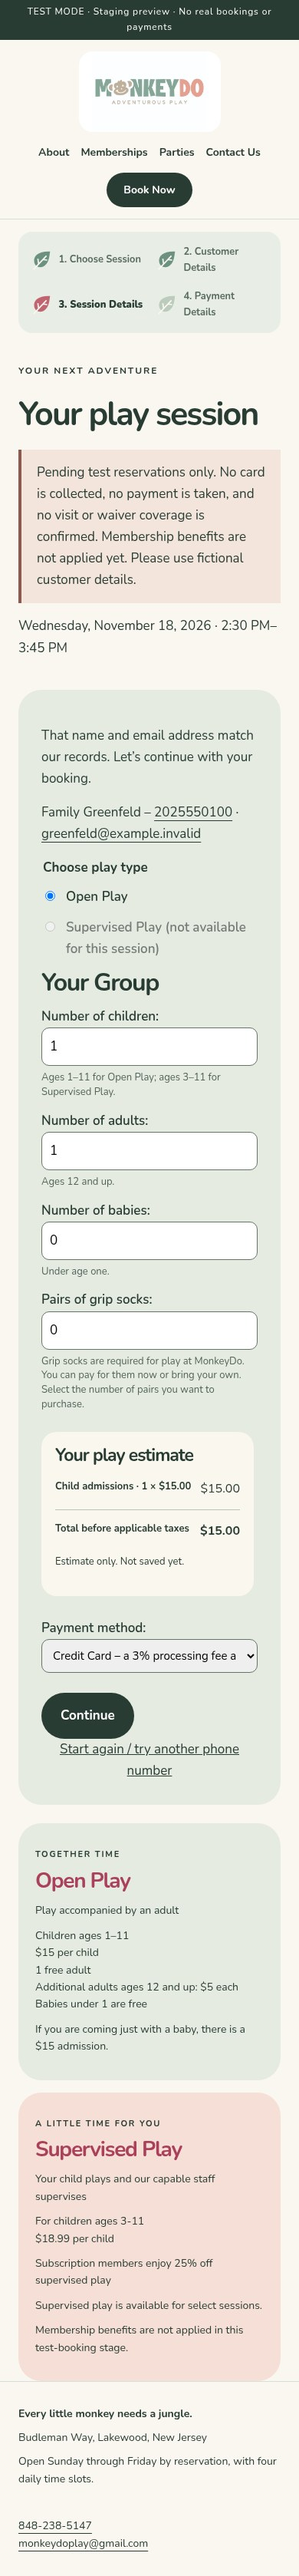
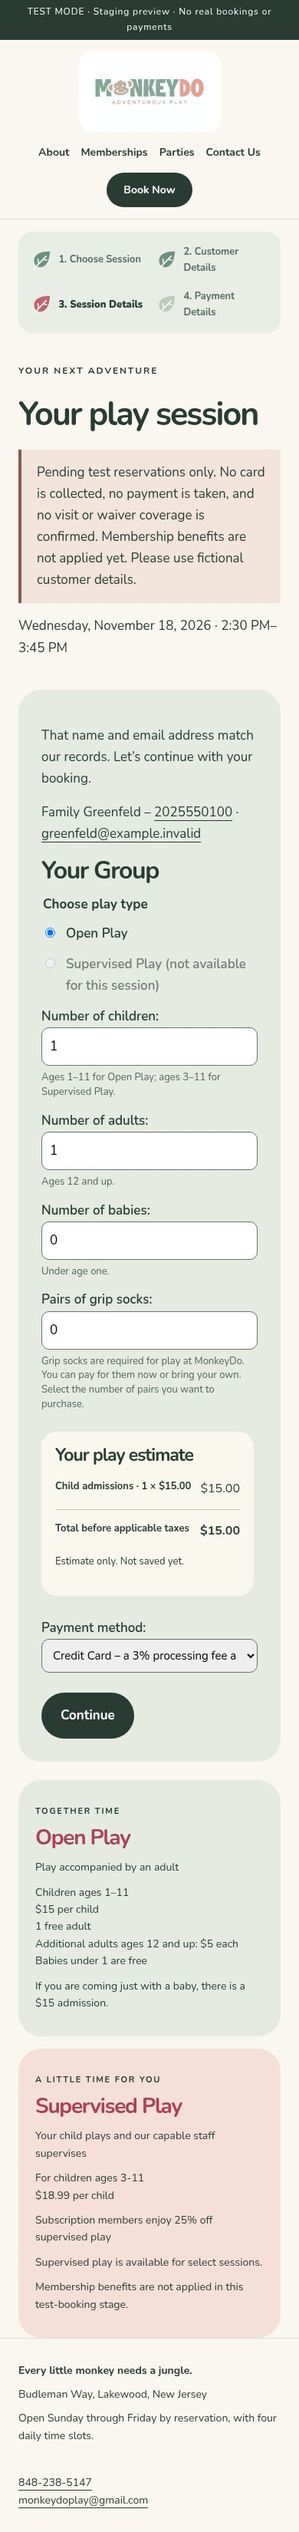
Refine booking page heading order and card spacing

diff --git a/templates/core/customer_booking.html b/templates/core/customer_booking.html
@@ -35,7 +35,7 @@
 {% if flow.stage == 'retry_phone' %}<button class="text-button" name="continue_new" value="1">Continue as a new customer</button>{% endif %}
 {% endif %}</form>{% endif %}
 {% if flow.stage == 'review' %}<form method="post" action="{% url 'customer_booking_revise' %}">{% csrf_token %}<input type="hidden" name="flow_key" value="{{ flow.key }}"><button class="text-button">Change your session details or your payment method</button></form>{% endif %}
-{% if flow.stage != 'contact' and flow.stage != 'retry_phone' and flow.stage != 'conflict_stop' %}
+{% if flow.stage != 'contact' and flow.stage != 'retry_phone' and flow.stage != 'conflict_stop' and flow.stage != 'details' %}
 {% if session %}<form method="post" action="{% url 'customer_booking_start' session.pk %}">{% csrf_token %}<button class="text-button">Start again / try another phone number</button></form>{% endif %}
 {% if flow.stage == 'name' and flow.verification_entry != 'returning_current' %}<form method="post" action="{% url 'customer_email_recovery' %}">{% csrf_token %}<button class="text-button">Find my customer details by email</button></form>{% endif %}
 {% endif %}

diff --git a/static/core/site.css b/static/core/site.css
@@ -923,7 +923,7 @@ input[type="checkbox"],input[type="radio"] { width:auto; padding:0; margin-right
 .table-filters .clear-dates { position:absolute; right:6px; top:4px }
 
 /* Fourth owner-feedback batch: public group layout and compact staff lists. */
-.customer-booking-layout.with-play-info { grid-template-columns:minmax(0,740px) 260px; gap:56px; max-width:1056px; margin-inline:0 }
+.customer-booking-layout.with-play-info { grid-template-columns:minmax(0,740px) 260px; gap:120px; max-width:1120px; margin-inline:0 }
 .public-details-layout { display:grid; grid-template-columns:repeat(2,minmax(0,1fr)); gap:22px; align-items:start }
 .public-play-choice { grid-column:1 / -1; padding:0; border:0; margin:0 }
 .public-play-choice legend { font-weight:700; margin-bottom:10px }

diff --git a/templates/core/partials/public_details_form.html b/templates/core/partials/public_details_form.html
@@ -1,6 +1,6 @@
-<fieldset class="public-play-choice"><legend>Choose play type</legend>{{ form.play_type.errors }}{{ form.play_type }}</fieldset>
 {{ form.non_field_errors }}
 <h2 class="public-group-heading">Your Group</h2>
+<fieldset class="public-play-choice"><legend>Choose play type</legend>{{ form.play_type.errors }}{{ form.play_type }}</fieldset>
 <div class="public-quantities">
 {% include 'core/partials/public_field.html' with field=form.children %}
 {% include 'core/partials/public_field.html' with field=form.adults %}

diff --git a/docs/MONKEYDO_REQUIREMENTS.md b/docs/MONKEYDO_REQUIREMENTS.md
@@ -134,7 +134,7 @@ Collect Last Name, phone, email, date/session, baby/child/adult quantities, calc
 
 Validate in browser and server: required fields/consent, nonnegative integer counts, nonzero attendance, adult rule where applicable, card setup unless owner-comped, availability/end time, capacity and permissions. Online waiver must be covered before booking completes; admin/phone bookings may confirm pending.
 
-The visible public progress indicator has four steps: Choose Session, Customer Details, Session Details, Payment Details. Expected payment-method selection stays in Session Details; the breakdown and final reviewed save action live in Payment Details, without a separate visible Review step. Show completion afterward. Add a waiver step only when the approved waiver workflow is implemented. Show an itemized calculation before confirmation. Public Session Details has a read-only live estimate labelled Total before applicable taxes, placed at the upper right of the quantity section, with Payment method and Continue below it at the bottom right. All four quantity inputs stack on the left. Show Family/contact links, Choose play type, then Your Group; use quantity labels with separate age guidance. The live estimate shows only admissions/adults/socks and their base subtotal, excluding both card-processing fees and tax from its rows and total; final Payment Details shows the complete fee/tax-inclusive breakdown. Stack compact Open/Supervised information cards without booking buttons outside the form on desktop and below it on phones. Save immutable price/tax/fee/policy snapshots; an authorized edit creates a new revision with before/after audit, not silent rewriting of the original. Future owner pricing/settings do not alter accepted existing bookings or cohort prices.
+The visible public progress indicator has four steps: Choose Session, Customer Details, Session Details, Payment Details. Expected payment-method selection stays in Session Details; the breakdown and final reviewed save action live in Payment Details, without a separate visible Review step. Show completion afterward. Add a waiver step only when the approved waiver workflow is implemented. Show an itemized calculation before confirmation. Public Session Details has a read-only live estimate labelled Total before applicable taxes, placed at the upper right of the quantity section, with Payment method and Continue below it at the bottom right. All four quantity inputs stack on the left. Show Family/contact links, Your Group, then Choose play type; omit Start again from Session Details while retaining lookup/recovery restart actions; use quantity labels with separate age guidance. The live estimate shows only admissions/adults/socks and their base subtotal, excluding both card-processing fees and tax from its rows and total; final Payment Details shows the complete fee/tax-inclusive breakdown. Stack compact Open/Supervised information cards without booking buttons outside the form on desktop and below it on phones. Save immutable price/tax/fee/policy snapshots; an authorized edit creates a new revision with before/after audit, not silent rewriting of the original. Future owner pricing/settings do not alter accepted existing bookings or cohort prices.
 
 ## 7. Customers and public identification
 
@@ -364,8 +364,8 @@ changes will receive owner interactive acceptance after approved deployment.
 See [complete scope/branch matrix](OWNER_EDITS_BATCH_4.md).
 
 - Public Session Details uses a narrower, left-aligned green panel with a clear
-  gap before outside play cards. Show Family/contact links, Choose play type and
-  then Your Group. All four quantity inputs stack on the left; item-only estimate
+  wider desktop gap before outside play cards. Show Family/contact links, Your Group
+  and then Choose play type. Omit Start again here; retain lookup/recovery restart actions. All four quantity inputs stack on the left; item-only estimate
   is upper right and Payment method/Continue bottom right. Use Number of
   children/adults/babies and Pairs of grip socks, with ages in separate help;
   responsive phone stacking. Do not show the card's

diff --git a/docs/OWNER_EDITS_BATCH_4.md b/docs/OWNER_EDITS_BATCH_4.md
@@ -13,7 +13,7 @@ with booking-page image comments; do not merge/deploy before that review.
 | Item | Implemented behavior |
 | --- | --- |
 | 1 | Omit Check the booking page to see which sessions offer it only from the booking-page Supervised Play information card. Preserve homepage/About wording. |
-| 2 | Narrower left-aligned green panel/inputs with a clear gap before outside play cards. Family/contact links, Choose play type, then Your Group. All four quantity fields stack left; estimate upper right and Payment method/Continue bottom right. Quantity labels are explicit; age guidance is separate. Stack on phones. |
+| 2 | Narrower left-aligned green panel/inputs with a clear gap before outside play cards. Family/contact links, Your Group, then Choose play type. No Start again link on Session Details; retain it on lookup/recovery screens. All four quantity fields stack left; estimate upper right and Payment method/Continue bottom right. Quantity labels are explicit; age guidance is separate. Stack on phones. |
 | 3 | Public form always shows Open/Supervised radios; unavailable choices are disabled/labelled. Open is default when available; supervised-only defaults to Supervised. Public Supervised selection resets adults/babies to zero and makes them read-only, with Supervised play is children only popup on attempted change. Restore prior Open values when switching back. Staff retain validation rather than locking. Estimate recalculates after the reset; server still rejects forged/nonzero supervised quantities. |
 | 4 | Customers search input is narrower, with type selector and Search aligned on desktop; All types remains the initial selection. Responsive stacking retains usability. |
 | 5 | Bookings, Today, Customers and Membership drafts have 10/25/50/100 rows, default 25, numbered/Previous/Next links, preserved filters/sort and page-one reset on size/filter change. Today totals/matching count remain independent of the displayed page. |
@@ -76,8 +76,9 @@ records plans, not implemented integrations. Homepage design remains unchanged.
 ## Booking-page image review follow-up
 
 The owner replaced the earlier two-by-two quantity arrangement: keep narrow
-spacing, align the green panel left with separation before the outside play cards,
-then Family/contact, Choose play type, and Your Group. All four quantity inputs
+spacing, align the green panel left with a wider desktop gap before the outside play cards,
+then Family/contact, Your Group, and Choose play type. Session Details omits
+Start again; lookup/recovery screens retain it. All four quantity inputs
 stack on the left; the estimate is upper right and payment/Continue lower right.
 Labels say Number of children/adults/babies and Pairs of grip socks, with ages
 and sock instructions as separate help, so inputs cannot be mistaken for ages.

diff --git a/docs/DECISION_LOG.md b/docs/DECISION_LOG.md
@@ -507,3 +507,14 @@ estimate upper right and payment/Continue bottom right. Explicit quantity labels
 and separate age help remove ambiguity about entering ages. Keep the same draft
 PR and refresh booking-page screenshots only. Matching, calculation, permissions
 and the deployment review boundary are unchanged.
+
+
+## Fourth-batch booking-page second image revision
+
+Owner approved the clearer quantity/age separation and requested three changes:
+omit Start again only from Session Details, restore Your Group above Choose play
+type, and move outside Open/Supervised information cards farther right. Keep the
+740px desktop panel and four left-side quantity fields; increase its desktop gap
+to the cards to 120px, with existing narrower-screen stacking. Lookup/recovery
+restart actions, matching, pricing and validation remain unchanged. Refresh the
+same eight booking-page images in draft PR #28; deployment awaits owner approval.

diff --git a/docs/STAGING_TEST_PLAN.md b/docs/STAGING_TEST_PLAN.md
@@ -273,8 +273,9 @@ Local developer regression/browser checks passed; owner booking-page screenshot
 review is pending. Other changed pages/scenarios receive owner interactive tests
 after approved deployment, per this batch's explicit review instruction.
 
-- B4-LAYOUT: left-aligned narrow panel with outside-card separation; Family/contact,
-  Choose play type and Your Group order. Four quantity fields stack left, estimate
+- B4-LAYOUT: left-aligned narrow panel with wider outside-card separation; Family/contact,
+  Your Group and Choose play type order. No Start again action on Session Details;
+  lookup/recovery restart actions remain. Four quantity fields stack left, estimate
   upper right and Payment/Continue bottom right. Quantity labels and separate age
   help, phone stacking and 320px no overflow.
   Check only booking card omits Check the booking page; homepage/About unchanged.

diff --git a/docs/BUILD_STATUS.md b/docs/BUILD_STATUS.md
@@ -12,8 +12,10 @@ images. The routine browser-ZIP PowerShell handoff passed with transport mocked;
 GitHub PostgreSQL 17/native Windows CI is separate release evidence.
 
 The subsequent booking-image correction left-aligns the panel, places all four
-quantity fields left and estimate/payment right, reorders play choice above
-Your Group and separates age help from quantity labels. It passed 41 affected
+quantity fields left and estimate/payment right, places Your Group above the
+play choices and separates age help from quantity labels. The latest owner
+correction removes Start again only from Session Details and widens the desktop
+gap before the outside play cards to 120px. It passed 41 affected
 tests and refreshed 1440/390px captures plus 320px checks; the existing full-suite
 result above precedes that presentation follow-up. GitHub rechecks the new head.
 

diff --git a/docs/CUSTOMER_BOOKING_DEVELOPMENT.md b/docs/CUSTOMER_BOOKING_DEVELOPMENT.md
@@ -136,8 +136,9 @@ field remains absent.
 
 ## Fourth batch — public layout and scoped verification
 
-The narrower public panel aligns left with space before the outside play cards.
-Its order is Family/contact links, Choose play type, then Your Group. All four
+The narrower public panel aligns left with a wider desktop gap before the outside play cards.
+Its order is Family/contact links, Your Group, then Choose play type. Session
+Details omits Start again; lookup/recovery screens retain their restart actions. All four
 quantity inputs stack on the left, with the estimate upper right and Payment
 method/Continue bottom right. Quantity labels are explicit and age guidance is
 separate; this supersedes the initial fourth-batch layout after image review. Always show both play

diff --git a/docs/design-review/owner-edits-batch-4/README.md b/docs/design-review/owner-edits-batch-4/README.md
@@ -26,8 +26,8 @@ Homepage/About imagery and layout are unchanged.
 
 
 Latest image-review revision: the narrower green panel aligns left with a clear
-gap before the outside cards. Family/contact links precede Choose play type and
-Your Group. Four inputs stack left with explicit quantity labels and separate
+120px desktop gap before the outside cards. Family/contact links precede Your Group
+and Choose play type. Start again is removed from Session Details only. Four inputs stack left with explicit quantity labels and separate
 age guidance; the estimate is upper right, payment/Continue bottom right. All
 eight JPGs reflect this revision. The 41 affected public-booking tests and browser
 checks passed; the PR remains a draft for image approval.
